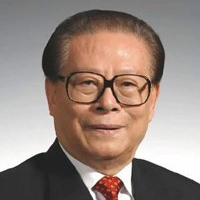
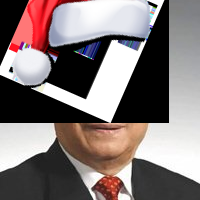
PutHatOn() debug finished. png fucking...

diff --git a/put_hat_on.hpp b/put_hat_on.hpp
@@ -1,7 +1,8 @@
-#ifndef PUT_HAT_ON_HPP_INCLUDED
-#define PUT_HAT_ON_HPP_INCLUDED
+#ifndef RECOLIC_PUT_HAT
+#define RECOLIC_PUT_HAT
 
 #include "stdafx.hpp"
+
 #include <opencv2/core.hpp>
 #include <random>
 #include <iostream>
@@ -14,6 +15,8 @@ using namespace cimg_library;
 using cv::Point2f;
 extern pair<vector<string>, vector<string>> hatImageInfos;
 std::vector<std::string> DivideString(const std::string &tod, const char divider);
+//extern CImg<unsigned int> recolic_read_png(const string &where);
+
 void putHatOn()
 {
     //Judge which hat to select
@@ -45,23 +48,37 @@ void putHatOn()
     }
     Point2f srcBeginPoint(stof(resBuf[0]), stof(resBuf[1]));
     Point2f srcEndPoint(stof(resBuf[2]), stof(resBuf[3]));
-    CImg<unsigned char> srcHat(resBuf[4].c_str());
+    CImg<float> srcHat(resBuf[4].c_str());
+    cout << "RECOLIC_DEBUG > ";
+    for(size_t cter = 0; cter < 5; ++cter)
+        cout << resBuf[cter] << ' ';
+    cout << endl;
     //methods...
     auto getLength = [](const Point2f &pa, const Point2f &pb) -> float {return sqrt((pb.y-pa.y)*(pb.y-pa.y) + (pb.x-pa.x)*(pb.x-pa.x));};
     auto getk = [](const Point2f &pa, const Point2f &pb) -> float {return (pa.y - pb.y)/(pa.x - pb.x);};
     auto getMiddlePoint = [](const Point2f &pa, const Point2f &pb) -> Point2f {return Point2f((pa.x+pb.x)/2, (pa.y+pb.y)/2);};
+    auto printPoint = [](const Point2f &toPrint) {cout << '(' << toPrint.x << ',' << toPrint.y << ')'; };
     float rateToMulti = getLength(analyseResult.bottomLine.lineBegin, analyseResult.bottomLine.lineEnd) / getLength(srcBeginPoint, srcEndPoint);
+    cout << "RECOLIC_DEBUG > rate=" << rateToMulti << "srcHat.width=" << srcHat.width() << ",height=" << srcHat.height() << endl;
     srcHat.resize(srcHat.width()*rateToMulti, srcHat.height()*rateToMulti);
+    srcBeginPoint.x *= rateToMulti;srcBeginPoint.y *= rateToMulti;srcEndPoint.x *= rateToMulti;srcEndPoint.y *= rateToMulti;
     float ksrc = getk(srcBeginPoint, srcEndPoint);
+    cout << "RECOLIC_DEBUG > ksrc=" << ksrc << " k=" << k << endl;
     float angleSrc = atan(ksrc);
     float angleDst = atan(k);
     float originHeight = srcHat.height();
-    float offsetAngle = angleDst - angleSrc;
-    srcHat.rotate(offsetAngle);
+    float offsetAngle = (angleDst - angleSrc);
+    cout << "RECOLIC_DEBUG > offsetAngle=" << offsetAngle << endl;
+    srcHat.display();
+    srcHat.rotate(offsetAngle*57.29578);
     if(srcBeginPoint.x > srcEndPoint.x)
         swap(srcBeginPoint, srcEndPoint);
     float sinAngle = sin(offsetAngle), cosAngle = cos(offsetAngle);
     Point2f newSrcBeginPoint(originHeight*sinAngle + srcBeginPoint.x*cosAngle - srcBeginPoint.y*sinAngle, srcBeginPoint.x*sinAngle + srcBeginPoint.y*cosAngle);
+    cout << "RECOLIC_DEBUG > new point:";
+    printPoint(newSrcBeginPoint);
+    cout << "old src is ";
+    printPoint(srcBeginPoint); cout << endl;
     Point2f offsetPointArrow(analyseResult.bottomLine.lineBegin.x - newSrcBeginPoint.x, analyseResult.bottomLine.lineBegin.y - newSrcBeginPoint.y);
     srcHat.display();
     cout << "RECOLIC_DEBUG > Drawing at " << offsetPointArrow.x << ',' << offsetPointArrow.y << endl;
@@ -91,4 +108,5 @@ std::vector<std::string> DivideString(const std::string &tod, const char divider
 	sbuf.push_back(tod.substr(lastPos + 1));
 	return sbuf;
 }
-#endif // PUT_HAT_ON_HPP_INCLUDED
+
+#endif

diff --git a/stdafx.hpp b/stdafx.hpp
@@ -1,4 +1,4 @@
-#pragma once
+
 #ifndef STDAFX_HPP_INCLUDED
 #define STDAFX_HPP_INCLUDED
 #if defined(_MSC_VER) || defined(WIN32)  || defined(_WIN32) || defined(__WIN32__) \
@@ -6,6 +6,7 @@
 #error Platform Error: Microsoft Windows detected.
 #endif
 #include "CImgDir/CImg.h"
+#define cimg_use_jpeg
 #include <opencv2/core.hpp>
 #include <array>
 using std::array;

diff --git a/CImgDir/png_reader.cpp b/CImgDir/png_reader.cpp
@@ -1,0 +1,15 @@
+#include "../stdafx.hpp"
+
+#include <opencv2/core.hpp>
+#include <random>
+#include <iostream>
+#include <ctime>
+#include <cmath>
+#include <vector>
+#include <string>
+
+CImg<unsigned int> recolic_read_png(const string &where)
+{
+    CImg<unsigned int> tor(where.c_str());
+    return tor;
+}

diff --git a/main.cpp b/main.cpp
@@ -1,4 +1,4 @@
-#include "stdafx.hpp"
+
 #include "put_hat_on.hpp"
 #include <iostream>
 #include <string>
@@ -217,3 +217,6 @@ void readConfig()
     }
     return;
 }
+///////////////////////////////
+
+

diff --git a/images/viewPng.cpp b/images/viewPng.cpp
@@ -3,6 +3,6 @@
 using namespace cimg_library;
 int main(int, char **args)
 {
-	CImg<unsigned char> img(args[1]);
+	CImg<unsigned int> img(args[1]);
 	img.display();
 }
